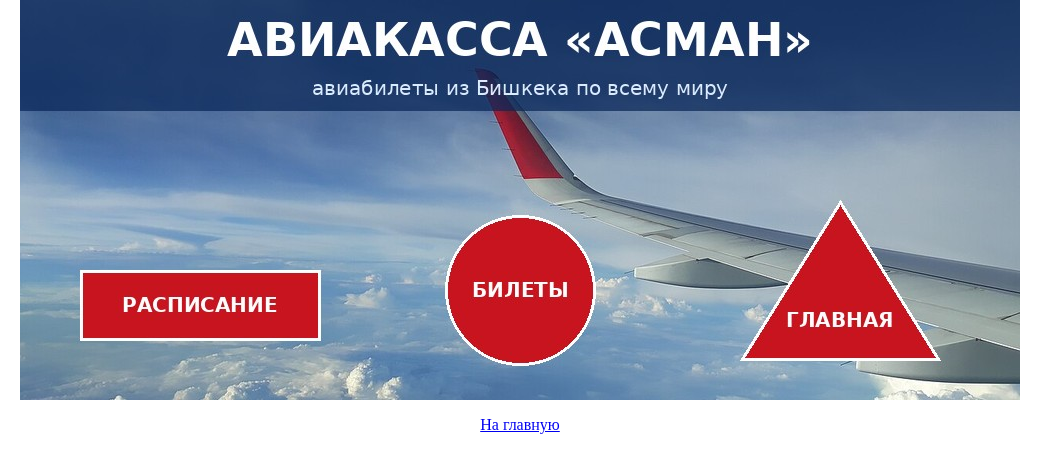
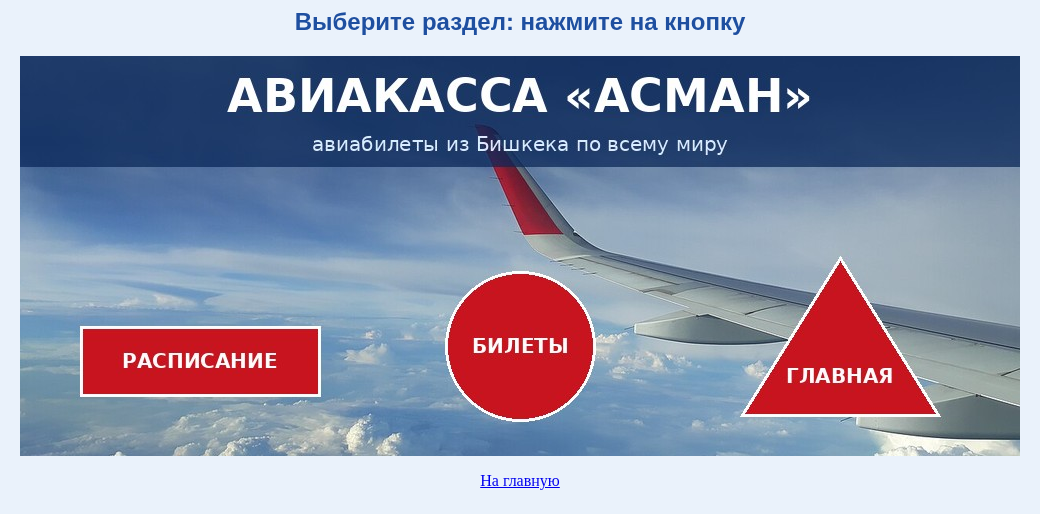
Replace methodology sample texts (Pushkin, Vysotsky vizitka, fig.6) with own aviakassa content; update screenshots

diff --git a/lab1/vizitka.html b/lab1/vizitka.html
@@ -6,27 +6,27 @@
 		<h1 align="center"><font color="red" face="Arial">Сайт авиакассы «Асман»</font></h1>
 		<h2 align="center"><font size="4" color="#1E4FA0" face="Georgia"><i>Авиабилеты из Бишкека по всему миру</i></font></h2>
 
-		<p align="center">В настоящее время сайт закрыт<br>
-		сайт начнет работать с <u><i>1 ноября 2026 года</i></u>.</p>
+		<p align="center">Сайт находится в разработке<br>
+		открытие продаж онлайн &mdash; <u><i>1 ноября 2026 года</i></u>.</p>
 
-		<h4>Разработчики сайта</h4>
+		<h4>Команда проекта</h4>
 		<blockquote>
 			<u>Суранбаев Байтур</u><sup><font size="1" color="blue">Дизайнер, программист</font></sup><br>
 			Асанова Айгерим Маратовна<sup><font size="1" color="blue">Редактор</font></sup><br>
-			<s>Петров Петр Петрович</s>
+			<s>Токтогулов Эрлан Бакытович</s><sup><font size="1" color="blue">Тестировщик (покинул проект)</font></sup>
 		</blockquote>
 
-		<h4>Цель сайта</h4>
+		<h4>Зачем нужен этот сайт</h4>
 		<blockquote>
-			<div>Цель создания сайта &mdash; дать пассажирам возможность быстро найти рейс, сравнить цены
-			и купить <strong>авиабилет</strong> онлайн, не выходя из дома, без очередей в кассе аэропорта &laquo;Манас&raquo;.</div>
+			<div>Мы хотим, чтобы покупка <strong>авиабилета</strong> занимала пять минут: выбрали рейс, сравнили тарифы,
+			оплатили картой &mdash; и получили электронный билет на почту, без поездки в кассу аэропорта &laquo;Манас&raquo;.</div>
 		</blockquote>
 
-		<h4>Целевая аудитория сайта</h4>
+		<h4>Для кого мы работаем</h4>
 		<blockquote>
-			<div>Основными посетителями сайта могут стать все, кто путешествует по работе или на отдых:
-			студенты, туристы, семьи с детьми, деловые люди. Здесь вы найдете <em>расписание рейсов</em>,
-			цены на билеты, акции и полезную информацию для пассажиров.</div>
+			<div>Наши пассажиры &mdash; студенты, которые летят домой на каникулы, туристы, семьи с детьми
+			и командированные сотрудники. Для них на сайте собраны <em>расписание рейсов</em>, тарифы,
+			спецпредложения и правила провоза багажа.</div>
 		</blockquote>
 
 		<h3>Популярные направления</h3>
@@ -37,13 +37,12 @@
 			<sub>* цены указаны за билет в одну сторону, эконом-класс</sub>
 		</p>
 
-		<h5>Статистика</h5>
+		<h5>Наши рейсы в цифрах</h5>
 <pre>
-Число проданных билетов:
-- - - - - - - - - - - -
-2024:        0
-2025:      350
-2026:     1250
+Год    Направлений   Пассажиров
+=====  ============  ==========
+2025        8            3 400
+2026       14           11 750
 </pre>
 
 		<p>&copy; 2024-2026 ОсОО &laquo;Асман Авиа&raquo;</p>

diff --git a/lab1/lab1_1.html b/lab1/lab1_1.html
@@ -1,19 +1,19 @@
 <html>
 	<head>
-		<title> Мой первый документ </title>
+		<title> Авиакасса «Асман» </title>
 	</head>
 	<body>
-		<h1> Мой первый HTML-документ </h1>
+		<h1> Авиакасса «Асман» &mdash; билеты в небо </h1>
 		<hr size="4" width="70%" color="#1E4FA0" align="center">
-		<blockquote><h2><q>Евгений Онегин</q></h2></blockquote>
+		<blockquote><h2><q>Перед вылетом</q></h2></blockquote>
 		<p align="right">
-			<font face="Georgia" size="4" color="#333333" style="text-decoration: underline; text-shadow: 2px 2px 3px #808080;"><u>А.С. Пушкин (отрывок)</u></font>
+			<font face="Georgia" size="4" color="#333333" style="text-decoration: underline; text-shadow: 2px 2px 3px #808080;"><u>Б. Суранбаев</u></font>
 		</p>
-		<p>Мой дядя самых честных правил,<br>
-			Когда не в шутку занемог,<br>
-			Он уважать себя заставил<br>
-			И лучше выдумать не мог.
+		<p>Билет в руке, табло горит,<br>
+			Посадку объявили нам.<br>
+			Над Бишкеком самолёт летит<br>
+			Навстречу новым городам.
 		</p>
-		<p align="center"><b>Жирный текст</b>, <em>логическое выделение</em>, <i>курсив</i>, <u>подчёркнутый текст</u>.</p>
+		<p align="center"><b>Авиабилеты</b> по всем направлениям, <em>выгодные цены</em>, <i>быстрое оформление</i>, <u>без очередей</u>.</p>
 	</body>
 </html>

diff --git a/lab2/menu.html b/lab2/menu.html
@@ -1,11 +1,12 @@
 <html>
 	<head>
-		<title>Карта изображений — Авиакасса «Асман»</title>
+		<title>Навигация по сайту — Авиакасса «Асман»</title>
 	</head>
-	<body style="margin:0; padding:0;">
+	<body bgcolor="#EAF2FB">
+		<h2 align="center"><font color="#1E4FA0" face="Arial">Выберите раздел: нажмите на кнопку</font></h2>
 		<p align="center">
-			<img src="images/menu.jpg" width="1000" height="400" usemap="#menu" alt="Картинка-меню сайта" border="0">
-			<map name="menu">
+			<img src="images/menu.jpg" width="1000" height="400" usemap="#knopki" alt="Картинка-меню сайта" border="0">
+			<map name="knopki">
 				<area shape="rect" coords="60,270,300,340" href="raspisanie.html" title="Расписание рейсов" alt="Расписание">
 				<area shape="circle" coords="500,290,75" href="bilety.html" title="Покупка билетов" alt="Билеты">
 				<area shape="poly" coords="820,200,720,360,920,360" href="home.html" title="Главная страница" alt="Главная">
